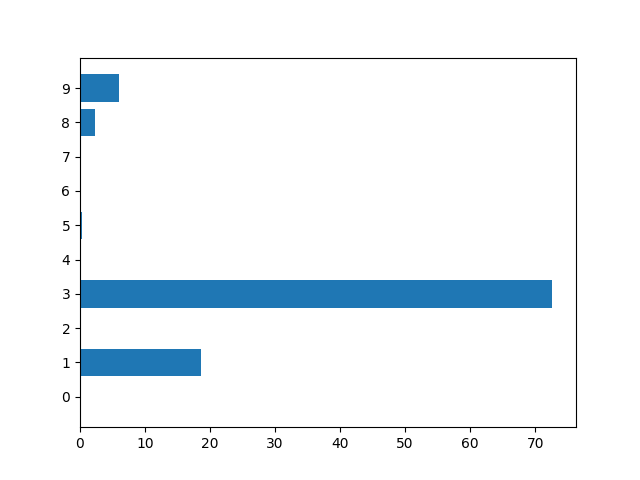
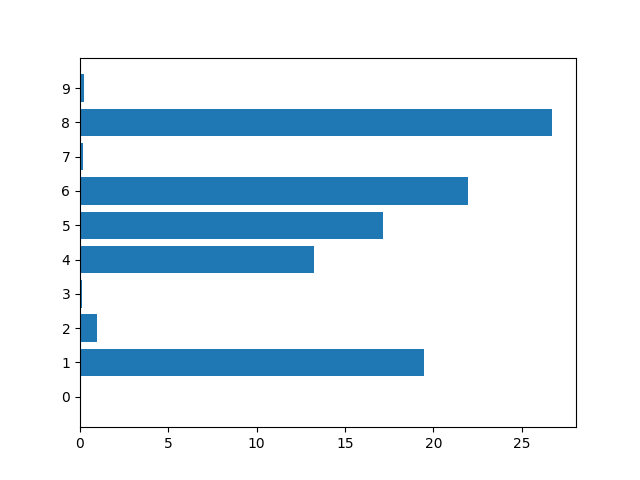
Implemented clearing figure, added comments

diff --git a/modules/ProjectGUI.py b/modules/ProjectGUI.py
@@ -153,12 +153,11 @@ class ProjectGUI(QMainWindow):
     def random_clicked(self):
         trainloader = torch.utils.data.DataLoader(model.mnist_trainset, batch_size=64, shuffle=True)
         dataiter = iter(trainloader) # creating a iterator
-        images, labels = dataiter.next() # creating images for image and lables for image number (0 to 9) 
-        #print(images.shape)
-        #print(labels.shape)
+        images, labels = dataiter.next() # image and lables for image number (0 to 9) 
         plt.imshow(images[0].numpy().squeeze(), cmap='gray_r')
         plt.axis('off')
         plt.savefig("drawnimage.png")
+        plt.clf()
 
     def recognise_clicked(self):
         image = Image.open('drawnimage.png').convert('L') # Converts handrawn digit to grayscale
@@ -166,28 +165,23 @@ class ProjectGUI(QMainWindow):
         image_invert = image_invert.resize((28, 28)) # Resizes the image to match MNIST Dataset
         image_invert.save('invertedimage.png') # Saves the new processed image
 
-        model.predictDigit(image_invert)
-        prediction, probabilities = model.predictDigit(image_invert)
-        print(prediction)
-        print(probabilities)
-        #print(classes)
-        background = plt.axes()
+        prediction, probabilities = model.predictDigit(image_invert) 
+        plt.clf() # Clearing any existing plots
+        background = plt.axes() 
         background.set(facecolor = "white")
-        classes = np.arange(start = 0,stop = 10, step = 1, dtype = None)
-        plt.yticks(np.arange(0, 10, step = 1))
-        #plt.xticks(np.arange(0, 10, step = 1))
-        plt.barh(classes, probabilities)
+        classes = np.arange(start = 0,stop = 10, step = 1, dtype = None) # Setting classes from 0 to 9
+        plt.yticks(np.arange(0, 10, step = 1)) # Setting y-Axis ticks 0 to 9
+        plt.barh(classes, probabilities) # Plotting bar graph with all probabilities 
         plt.show()
         plt.savefig('predictionplot.png')
-        predictionimage = Image.open('predictionplot.png')
-        predictionimage = predictionimage.resize((120,120))
-        predictionimage.save('predictionimage.png')
-        self.graph = QPixmap('predictionimage.png')
-        self.probability.setPixmap(self.graph)
-        #self.update()
+        predictionimage = Image.open('predictionplot.png') # Saving plot as image
+        predictionimage = predictionimage.resize((120,120)) # Resizing plot to show on main window
+        predictionimage.save('predictionimage.png') # Saving the resized image
+        self.graph = QPixmap('predictionimage.png') # Setting image to pixmap on main window
+        self.probability.setPixmap(self.graph) 
 
-        numbertext = str(prediction)
-        self.predictionValue.setText(numbertext)
+        numbertext = str(prediction) # Saving predicted digit as string
+        self.predictionValue.setText(numbertext) # Showing predicted number on main window
         self.predictionValue.setAlignment(Qt.AlignCenter)
         
     # trainModelDialog() creates a dialog box when the user clicks File>Train Model
